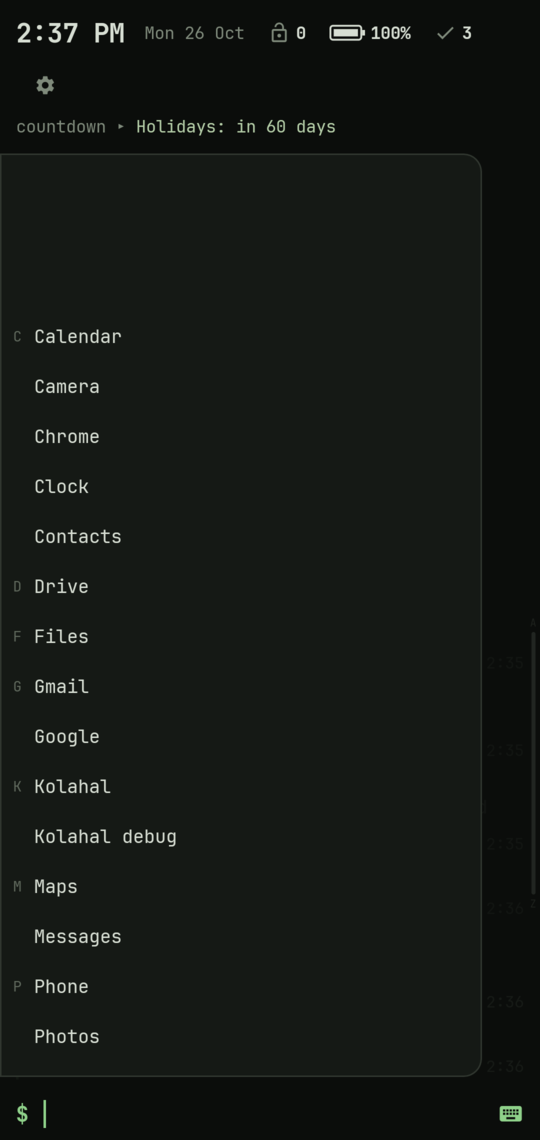
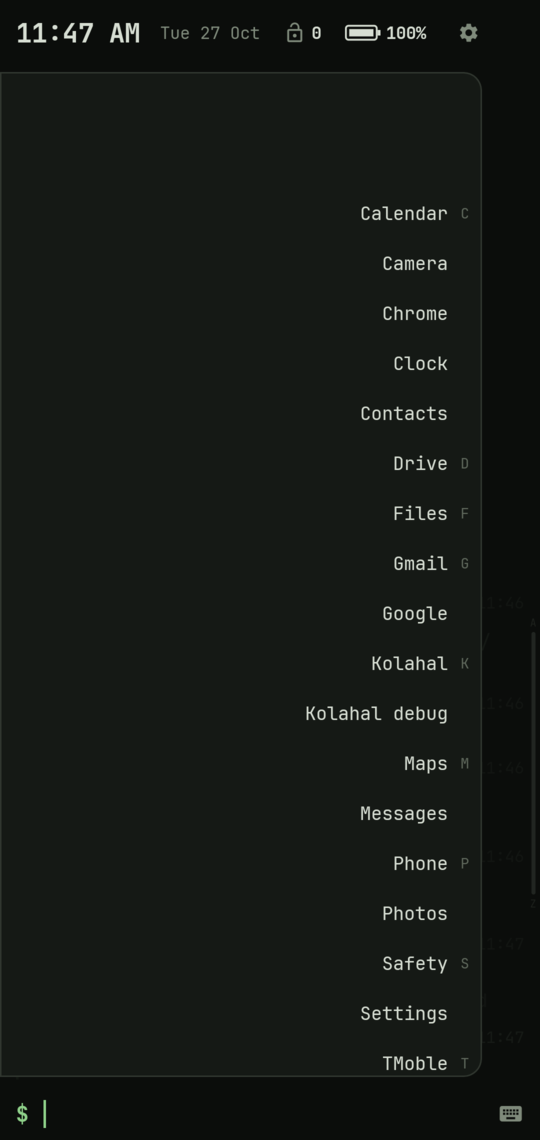
App selector: left open, the names come to the thumb
With the strip on the right edge, the list left open (lifted on the
edge) runs right to left: the section letters at the panel's edge, the
names right-aligned beside them, next to the thumb. Sliding and picking
keep the names on the far side, clear of the thumb, as before; the row
crossfades between the two as the panel widens. With the strip on the
left edge the names were already on the thumb's side, so nothing
changes there. SelectorRow takes mirrored and lays the Row out with
LocalLayoutDirection Rtl, the label TextAlign.Right whatever its script.

AppSelectorTest checks where a name's letters are drawn (its text
layout, not its cell): by the panel's left while sliding, by its right
once open; with mirroring off it fails. The website's left-open
screenshot is taken again, with a marker for the names and letters;
Basics and the 0.4.7 notes say so.

diff --git a/app/src/main/java/com/mtwabpin/kolahal/ui/AppRail.kt b/app/src/main/java/com/mtwabpin/kolahal/ui/AppRail.kt
@@ -2,6 +2,7 @@ package com.mtwabpin.kolahal.ui
 
 import android.os.SystemClock
 import androidx.activity.compose.BackHandler
+import androidx.compose.animation.Crossfade
 import androidx.compose.animation.core.Animatable
 import androidx.compose.animation.core.Spring
 import androidx.compose.animation.core.animateDpAsState
@@ -42,6 +43,7 @@ import androidx.compose.foundation.shape.RoundedCornerShape
 import androidx.compose.foundation.systemGestureExclusion
 import androidx.compose.material3.Text
 import androidx.compose.runtime.Composable
+import androidx.compose.runtime.CompositionLocalProvider
 import androidx.compose.runtime.LaunchedEffect
 import androidx.compose.runtime.derivedStateOf
 import androidx.compose.runtime.getValue
@@ -80,8 +82,10 @@ import androidx.compose.ui.text.drawText
 import androidx.compose.ui.text.font.FontWeight
 import androidx.compose.ui.text.TextStyle
 import androidx.compose.ui.text.rememberTextMeasurer
+import androidx.compose.ui.text.style.TextAlign
 import androidx.compose.ui.text.style.TextOverflow
 import androidx.compose.ui.unit.IntOffset
+import androidx.compose.ui.unit.LayoutDirection
 import androidx.compose.ui.unit.dp
 import androidx.compose.ui.unit.sp
 import com.mtwabpin.kolahal.apps.AppEntry
@@ -874,6 +878,8 @@ fun AppSelector(
                         pinned = entry.item.key in pinned,
                         icon = if (icons) iconSize else null,
                         enabled = state.mode == Mode.OPEN,
+                        // Left open with the strip on the right, the names come over to the thumb's side.
+                        mirrored = !left && state.mode == Mode.OPEN,
                         // A letter's few apps on their own: no room to magnify the ends.
                         fisheye = !onlyLetter,
                         dimOthers = byLetter && !onlyLetter,
@@ -1305,7 +1311,11 @@ fun AppSelector(
     }
 }
 
-/** One list row: section letter in the gutter, profile tag in its colour, ★, the label. */
+/**
+ * One list row: section letter in the gutter, profile tag in its colour, ★, the label. [mirrored],
+ * it runs right to left: the letter at the panel's right edge and the label right-aligned beside the
+ * icon, by the thumb on the right edge; it crossfades as the open panel widens.
+ */
 @OptIn(ExperimentalFoundationApi::class)
 @Composable
 private fun SelectorRow(
@@ -1319,6 +1329,8 @@ private fun SelectorRow(
     /** The app's icon at this size at the row's start (Plan E), or none. */
     icon: androidx.compose.ui.unit.Dp?,
     enabled: Boolean,
+    /** Right to left, next to a strip on the right: the list left open. */
+    mirrored: Boolean,
     /** Magnify the row at the thumb and its neighbours while picking. */
     fisheye: Boolean,
     /** Letters: while the thumb is down, the other letters' apps fade back (unless picked). */
@@ -1334,6 +1346,8 @@ private fun SelectorRow(
     }
     val quiet = app.profile.quiet
     val holdColor = Term.prompt.copy(alpha = 0.3f)
+    Crossfade(mirrored, animationSpec = tween(160), label = "row-side") { rightToLeft ->
+    CompositionLocalProvider(LocalLayoutDirection provides if (rightToLeft) LayoutDirection.Rtl else LocalLayoutDirection.current) {
     Row(
         verticalAlignment = Alignment.CenterVertically,
         modifier = Modifier
@@ -1395,11 +1409,15 @@ private fun SelectorRow(
             ),
             maxLines = 1,
             overflow = TextOverflow.Ellipsis,
+            // Right to left, the name keeps to the right whatever its script.
+            textAlign = if (rightToLeft) TextAlign.Right else null,
             modifier = Modifier.weight(1f),
         )
         // B2: on the far side, lifting opens the app's actions; the row says so.
         if (focused && state.far) {
             Text("⋯ Actions", style = text.copy(color = Term.prompt, fontSize = (Term.fontSize - 2).sp), maxLines = 1)
         }
+    }
+    }
     }
 }

diff --git a/app/src/androidTest/java/com/mtwabpin/kolahal/ui/AppSelectorTest.kt b/app/src/androidTest/java/com/mtwabpin/kolahal/ui/AppSelectorTest.kt
@@ -15,6 +15,7 @@ import androidx.compose.ui.test.performScrollToIndex
 import androidx.compose.ui.test.getUnclippedBoundsInRoot
 import androidx.compose.ui.test.junit4.createComposeRule
 import androidx.compose.ui.test.onAllNodesWithTag
+import androidx.compose.ui.test.onAllNodesWithText
 import androidx.compose.ui.test.onNodeWithTag
 import androidx.compose.ui.test.performTouchInput
 import androidx.compose.ui.unit.dp
@@ -420,6 +421,34 @@ class AppSelectorTest {
         // 55% of the width, but at least 200dp; open, all but the 36dp strip and an 8dp gap.
         assertEquals(200f, sliding, 1f)
         assertEquals(360f - 36f - 8f, open, 1f)
+    }
+
+    /** Where [label]'s letters start and end on screen (dp), not its cell, which takes the row's room. */
+    private fun textSpan(label: String): Pair<Float, Float> {
+        val node = compose.onNodeWithText(label, useUnmergedTree = true)
+        val box = node.getUnclippedBoundsInRoot()
+        val layouts = mutableListOf<androidx.compose.ui.text.TextLayoutResult>()
+        node.fetchSemanticsNode().config[androidx.compose.ui.semantics.SemanticsActions.GetTextLayoutResult].action?.invoke(layouts)
+        val line = layouts.first()
+        val d = compose.density.density
+        return (box.left.value + line.getLineLeft(0) / d) to (box.left.value + line.getLineRight(0) / d)
+    }
+
+    /** Left open with the strip on the right, the names come over to the thumb's side; while sliding they keep to the far side. */
+    @Test fun leftOpenTheNamesComeToTheThumb() {
+        show(left = false, position = "bottom")
+        compose.onNodeWithTag("app-selector").performTouchInput { down(center) }
+        compose.waitForIdle()
+        val label = entries.map { it.item.label }.first { compose.onAllNodesWithText(it, useUnmergedTree = true).fetchSemanticsNodes().isNotEmpty() }
+        val sliding = compose.onNodeWithTag("app-selector-panel").getUnclippedBoundsInRoot()
+        val (slidingLeft, _) = textSpan(label)
+        assertTrue("sliding, $label starts at the panel's left ($slidingLeft, panel ${sliding.left})", slidingLeft < sliding.left.value + 48f)
+        compose.onNodeWithTag("app-selector").performTouchInput { up() }
+        compose.waitForIdle()
+        val open = compose.onNodeWithTag("app-selector-panel").getUnclippedBoundsInRoot()
+        val (openLeft, openRight) = textSpan(label)
+        assertTrue("open, $label ends by the panel's right ($openRight, panel ${open.right})", openRight > open.right.value - 56f)
+        assertTrue("open, $label no longer starts at the left ($openLeft)", openLeft > open.left.value + 48f)
     }
 
     /** Keyboard up (inactive): nothing shows and an open list closes; down again, it is back as it was. */

diff --git a/docs/release/notes/0.4.7.md b/docs/release/notes/0.4.7.md
@@ -7,4 +7,8 @@ Kolahal 0.4.7, package `com.mtwabpin.kolahal`, Android 9 or newer. It installs o
 
 - **`script diff <name>`**: a library script you changed, against the library version, in the log, as **Compare** shows it in the script manager: lines only in the library version in red (`-`), lines only in yours in the theme's colour (`+`), three unchanged ones around each change and the rest counted. Copy text on its first line copies it as a plain diff, and its last line says how to take the library version.
 
+## Changed
+
+- **The app selector's list, left open, comes to your thumb**: with the selector on the right edge, lifting on the edge leaves the list with its names right-aligned and its section letters at the edge, beside your thumb; while you slide, they stay on the far side as before. With the selector on the left edge they were already on your thumb's side.
+
 **kolahal-0.4.7-mapping.zip** is only for reading crash reports from these builds; you don't need it to install.
